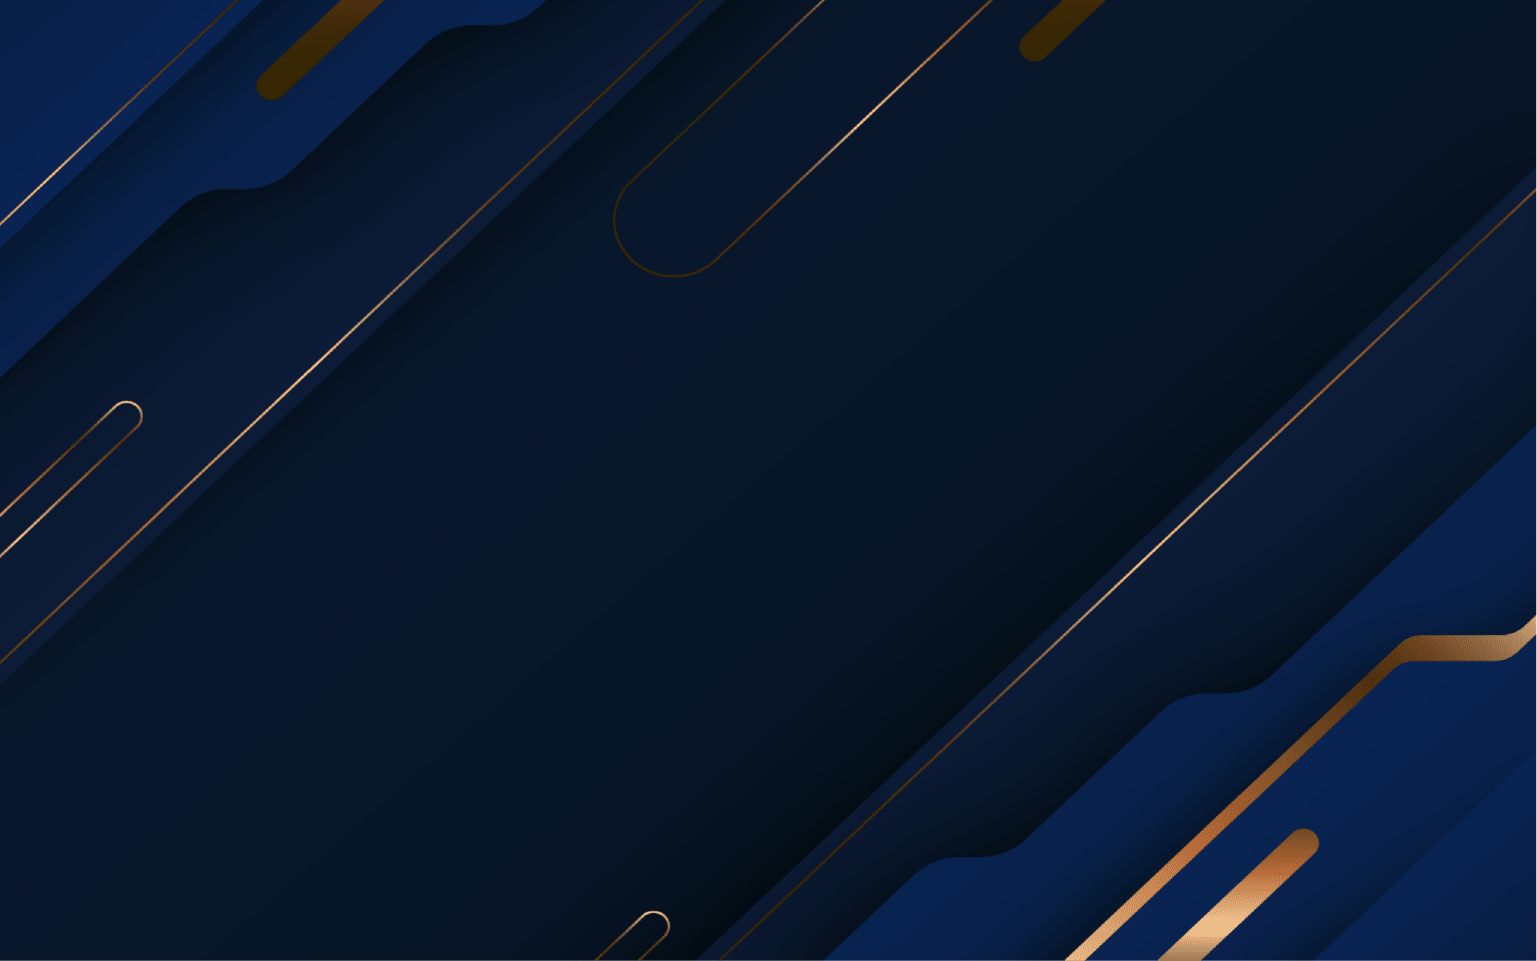
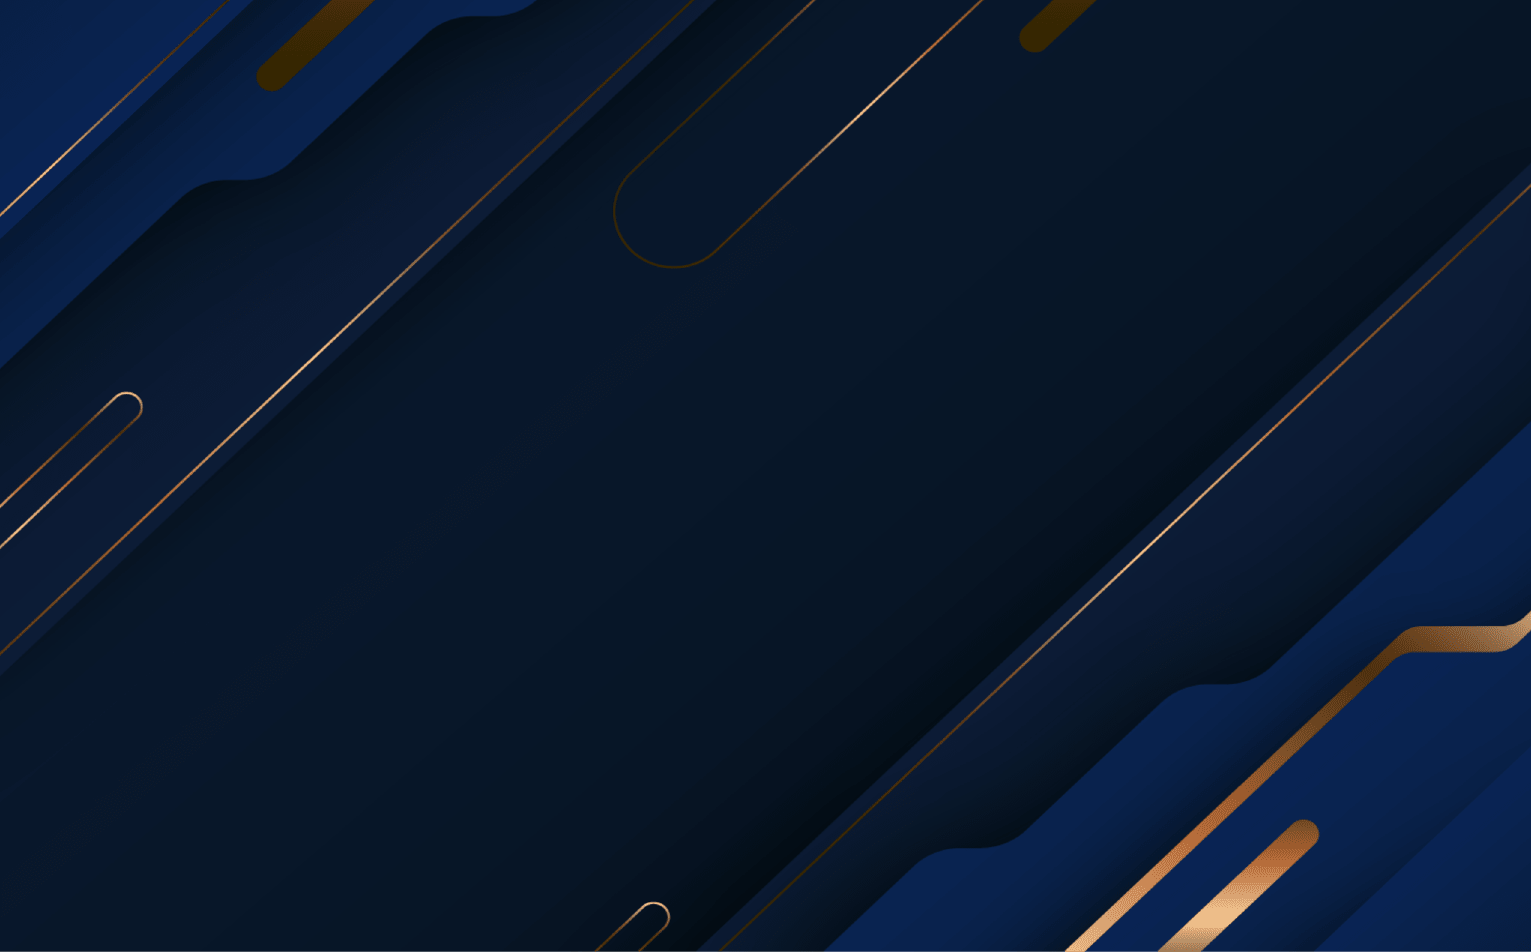
home restructure

diff --git a/src/components/home/Home.tsx b/src/components/home/Home.tsx
@@ -1,0 +1,46 @@
+import { Dispatch, FC, SetStateAction, useState } from "react";
+import "./Home.css";
+import LogoImg from "../../assets/logo1.png";
+
+interface HomeProps {
+  setgameDetails: Dispatch<
+    SetStateAction<{ name: string; difficulty: string }>
+  >;
+}
+export const Home: FC<HomeProps> = ({ setgameDetails }) => {
+  const [name, setName] = useState("");
+  const [difficulty, setDifficulty] = useState("1");
+
+  function handleGameStart() {
+    if (!name) {
+      alert("Please enter your name.");
+    } else {
+      setgameDetails({ name: name, difficulty: difficulty });
+    }
+  }
+
+  return (
+    <>
+      <div className="home">
+        <img src={LogoImg} height="100px" alt="logo" />
+        <h1>Fast Fingers</h1>
+        <input
+          className="home__input"
+          placeholder="Enter Your Name"
+          onChange={(e) => setName(e.target.value)}
+        />
+        <select
+          className="home__select"
+          onChange={(e) => setDifficulty(e.target.value)}
+        >
+          <option value="1">Easy Level</option>
+          <option value="2">Medium Level</option>
+          <option value="3">Hard Level</option>
+        </select>
+        <button className="home__button" onClick={handleGameStart}>
+          Start Game
+        </button>
+      </div>
+    </>
+  );
+};

diff --git a/src/components/home/Home.css b/src/components/home/Home.css
@@ -1,0 +1,64 @@
+.home {
+  position: absolute;
+  top: 50%;
+  left: 50%;
+  transform: translate(-50%, -50%);
+  width: fit-content;
+  padding: 20px;
+  text-align: center;
+  border: 4px solid #f37900;
+  border-radius: 20px;
+  background-color: #0b043d;
+  color: white;
+}
+
+.home h1 {
+  padding-bottom: 20px;
+  border-bottom: 2px solid white;
+}
+
+.home__input {
+  width: 250px;
+  height: 40px;
+  font-size: 20px;
+  padding: 10px;
+  margin: 10px;
+  margin-top: 20px;
+  border: none;
+  border-radius: 5px;
+}
+
+.home__select {
+  width: 250px;
+  height: 40px;
+  font-size: 16px;
+  padding: 5px;
+  margin: 10px;
+  border: none;
+  border-radius: 5px;
+}
+
+.home__input:hover,
+.home__select:hover {
+  border: 3px solid #f37900;
+}
+
+.home__button {
+  width: 150px;
+  height: 40px;
+  border-radius: 5px;
+  font-size: 20px;
+  margin: 10px;
+  background-color: #f37900;
+  font-weight: bolder;
+  color: white;
+  border: none;
+  cursor: pointer;
+}
+.home__button:hover {
+  border: 2px solid white;
+  background-color: #af5904;
+}
+.home__button:active {
+  transform: scale(0.9);
+}

diff --git a/src/App.tsx b/src/App.tsx
@@ -1,18 +1,11 @@
-import Home from "./components/Home.tsx";
-import "./styles/App.css";
+import { useState } from "react";
+import "./App.css";
+import { Home } from "./components/home/Home.tsx";
 import Game from "./components/Game.tsx";
-import { BrowserRouter, Navigate, Route, Routes } from "react-router-dom";
 
 function App() {
-  return (
-    <BrowserRouter>
-      <Routes>
-        <Route path="/" element={<Home />} />
-        <Route path="/game" element={<Game />} />
-        <Route path="*" element={<Navigate to="/" />} />
-      </Routes>
-    </BrowserRouter>
-  );
+  const [gameDetails, setgameDetails] = useState({ name: "", difficulty: "1" });
+  return <Home setgameDetails={setgameDetails}/>;
 }
 
 export default App;

diff --git a/src/App.css b/src/App.css
@@ -1,0 +1,14 @@
+* {
+  margin: 0;
+  padding: 0;
+  box-sizing: border-box;
+}
+
+body {
+  width: 100%;
+  height: 100vh;
+  background-image: url("./assets/bg.png");
+  background-size: cover;
+  background-repeat: no-repeat;
+  background-position: center;
+}
